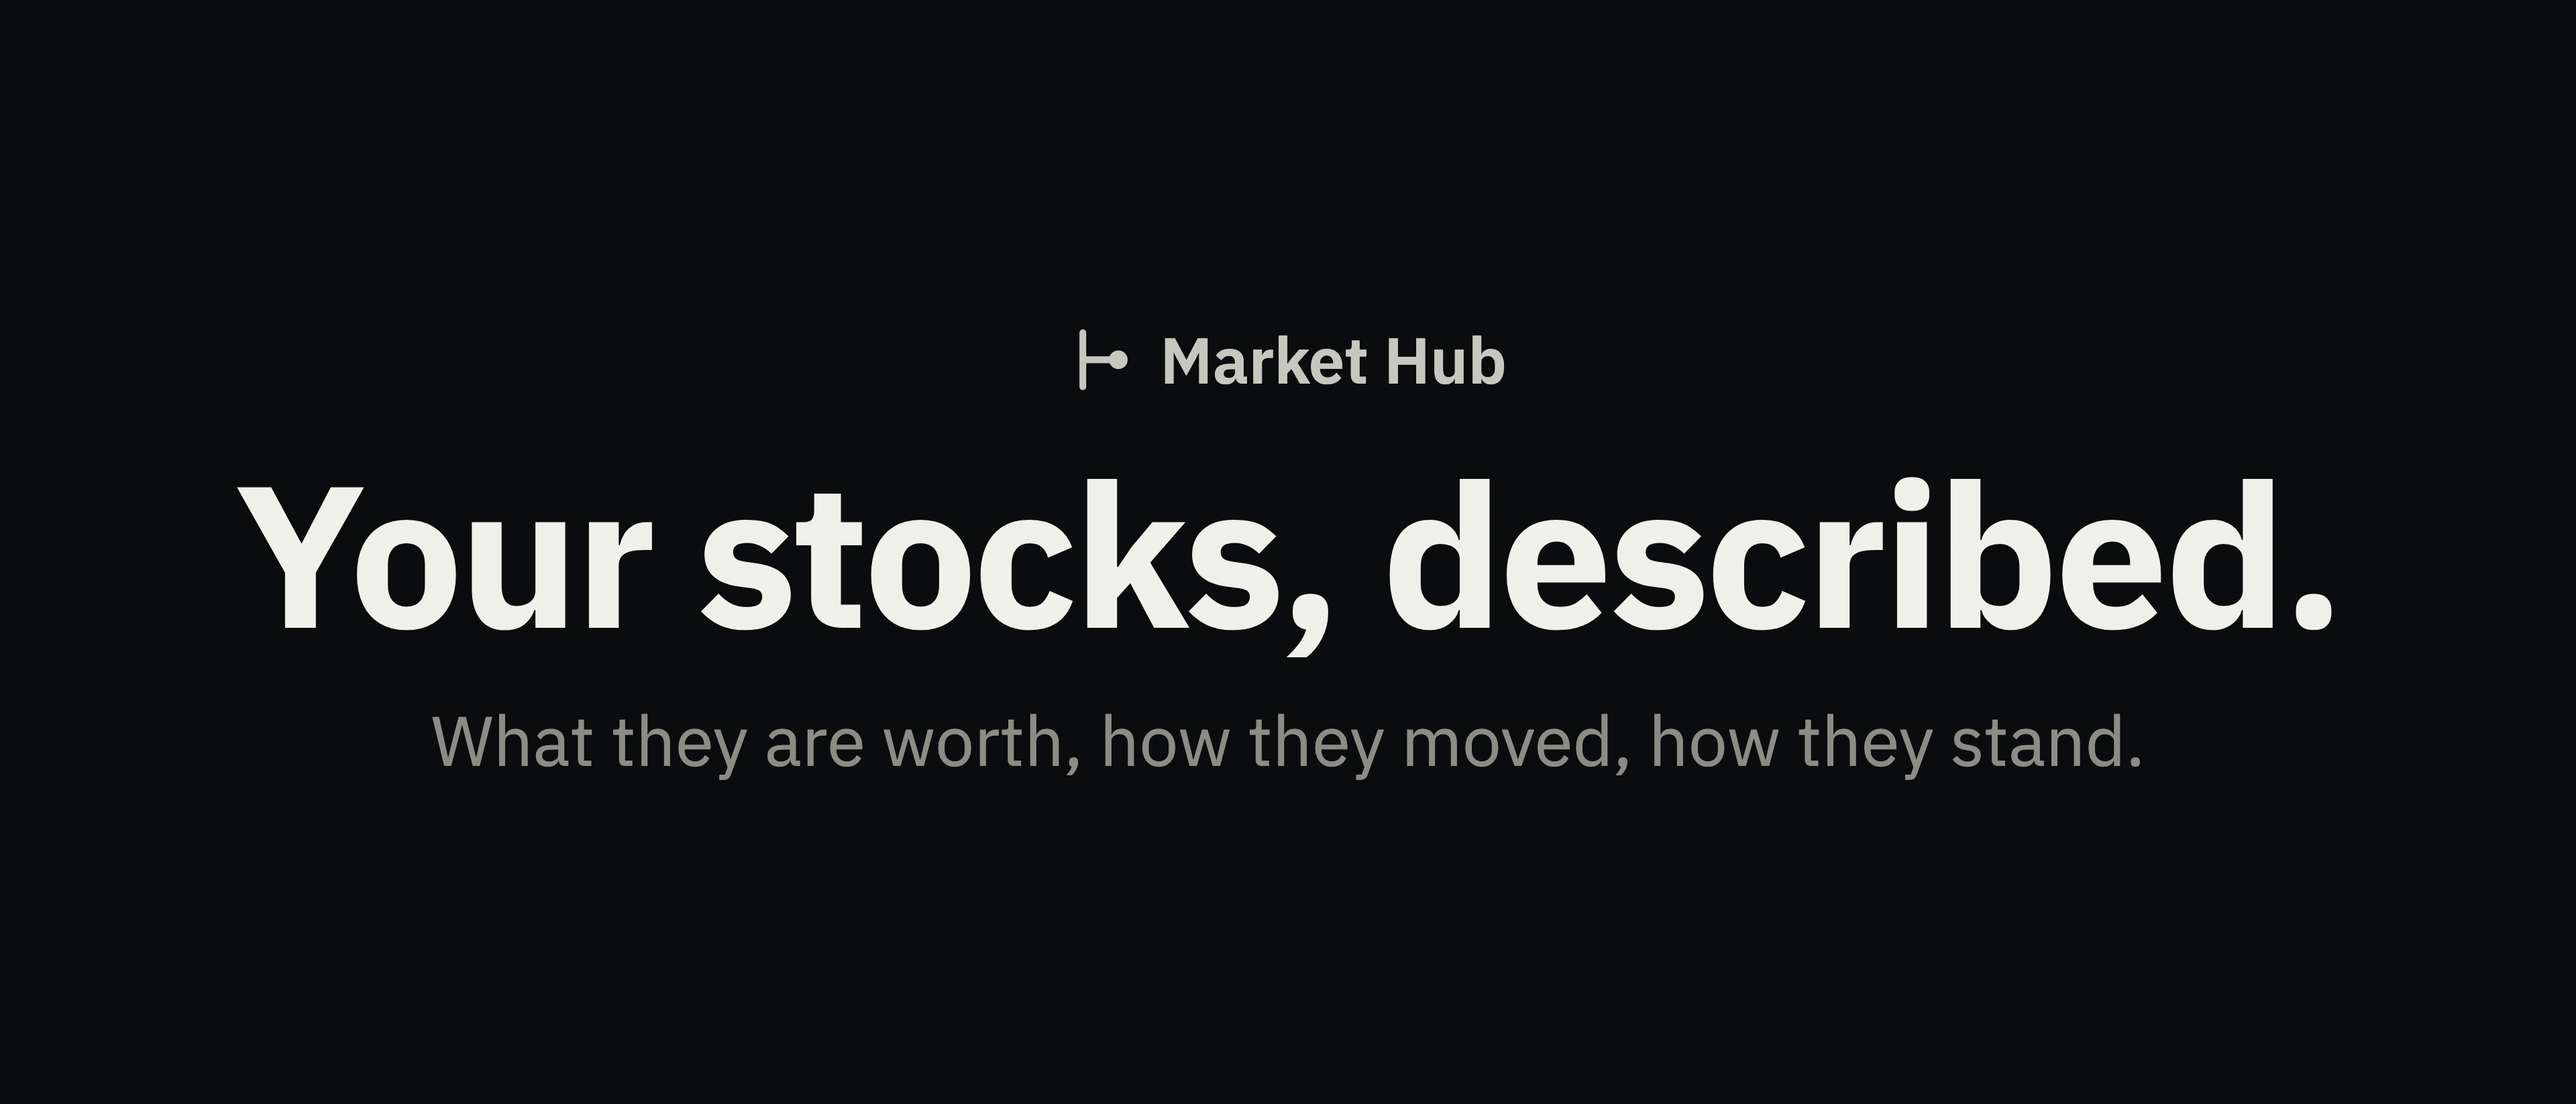
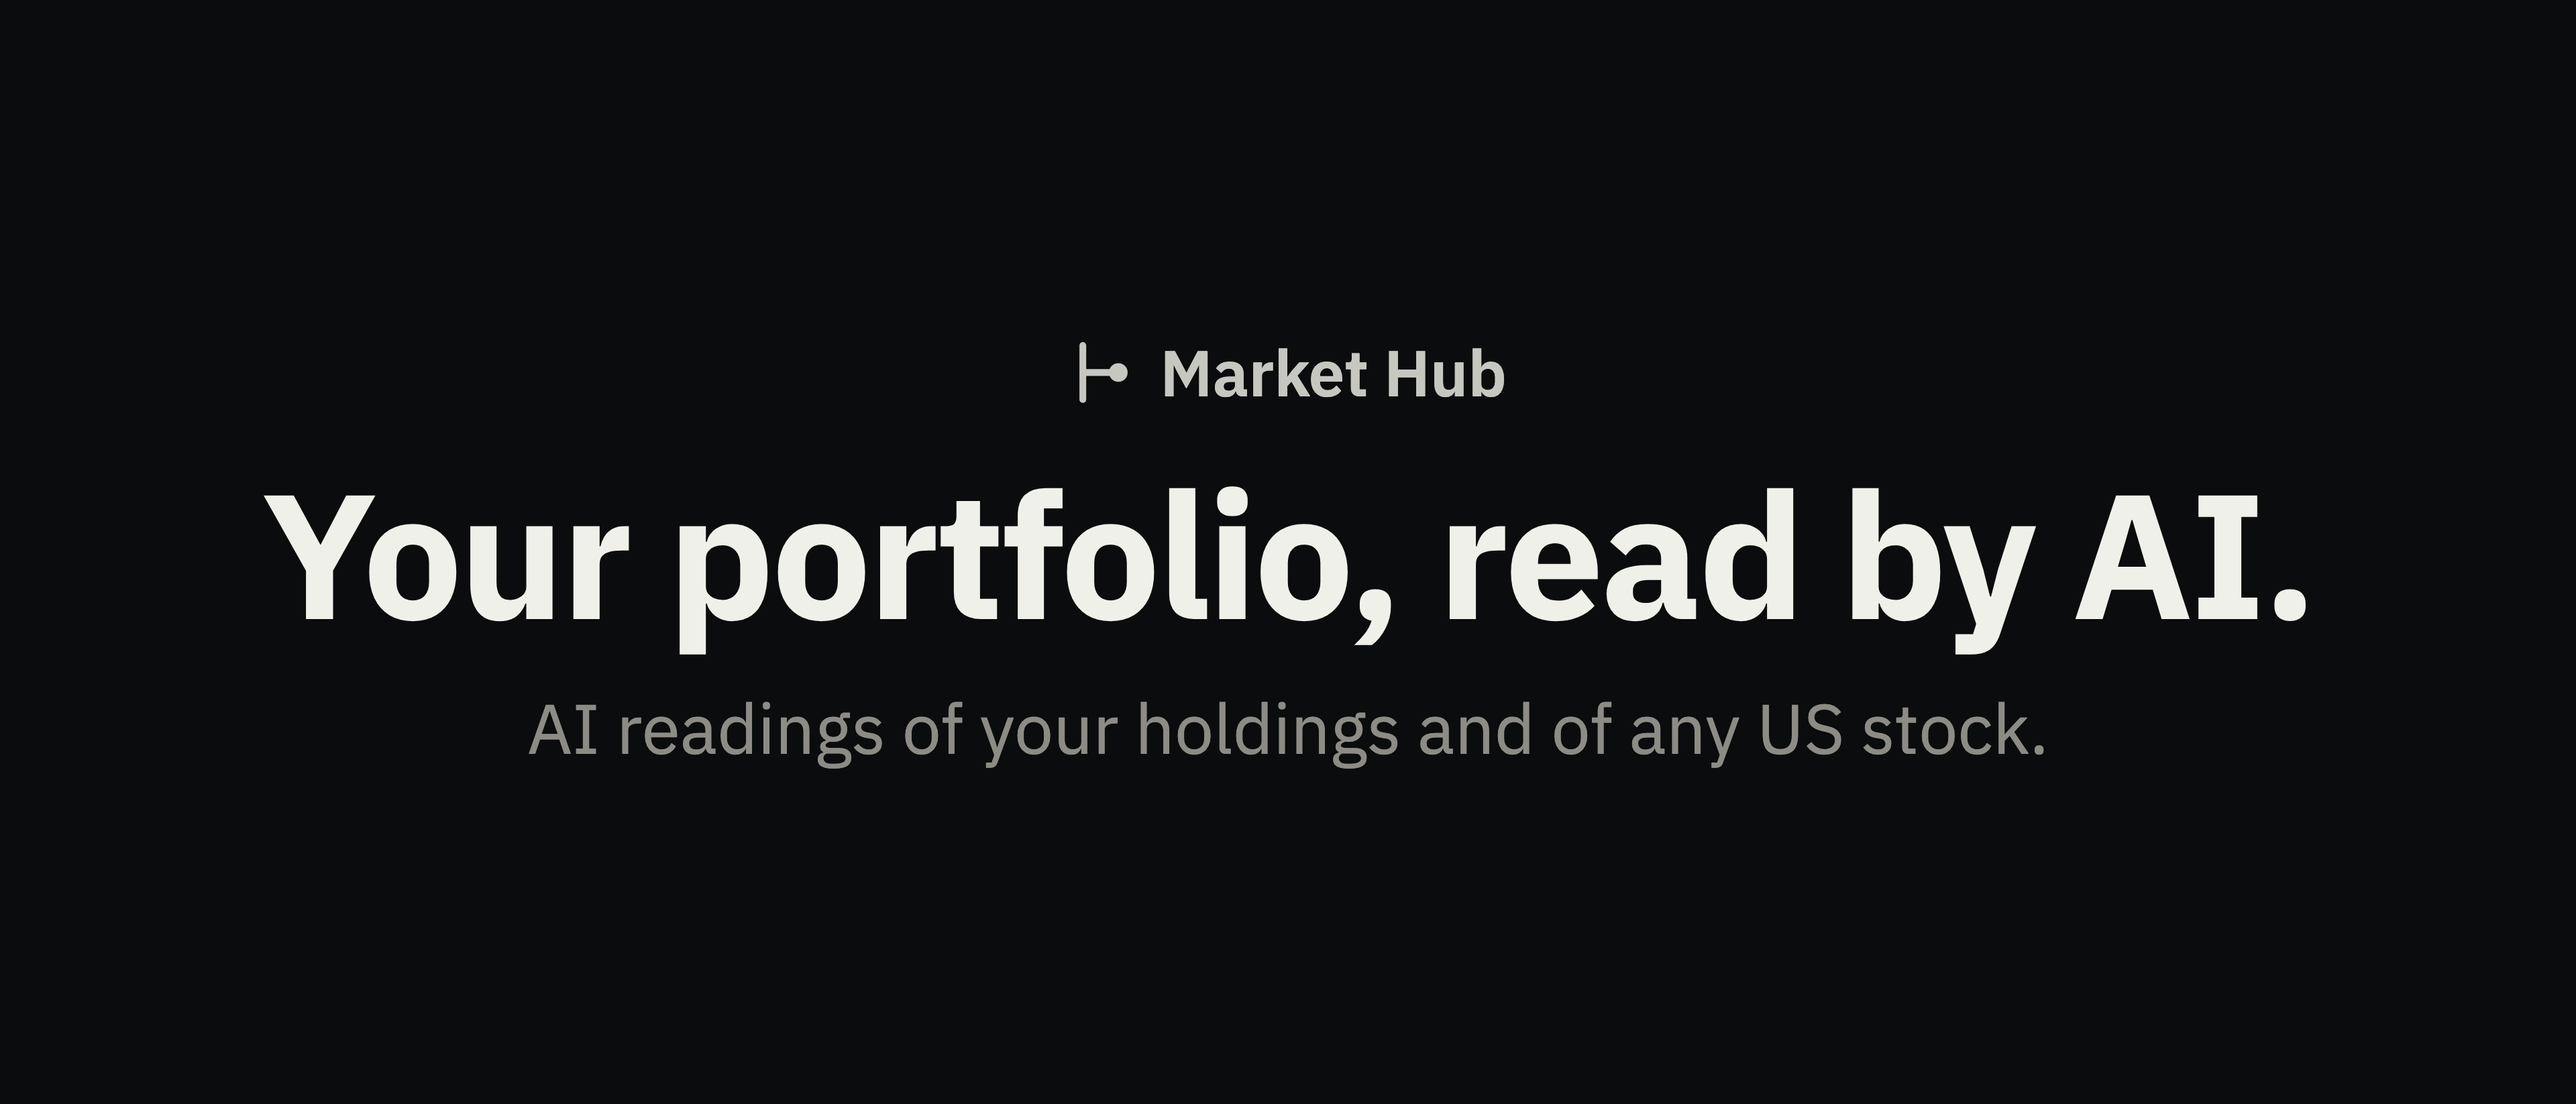
The App Store's two pictures say what the owner wants said: the portfolio, read by AI

Changed region(s): [[0.0938, 0.4338, 0.9062, 0.5887], [0.1562, 0.6197, 0.8438, 0.7126], [0.4062, 0.3098, 0.5938, 0.3718]]

diff --git a/store/app-store/art/search.html b/store/app-store/art/search.html
@@ -7,7 +7,7 @@
   body { display: grid; grid-template-columns: 1.02fr 1fr; align-items: center; padding: 0 230px; column-gap: 120px; }
   .brand { font-size: 104px; color: var(--ink); }
   h1 { font-size: 248px; margin-top: 84px; }
-  .sub { font-size: 100px; margin-top: 70px; max-width: 14.5em; }
+  .sub { font-size: 100px; margin-top: 70px; max-width: 15em; text-wrap: balance; }
   .shots { position: relative; height: 2560px; }
   .shot { position: absolute; width: 960px; }
   .shot.back { right: 0; top: 330px; }
@@ -19,8 +19,8 @@
       <svg viewBox="0 0 20 20" fill="none" stroke="currentColor" stroke-width="2" stroke-linecap="round"><path d="M4 2v16M4 10h8"/><circle cx="14.5" cy="10" r="2.75" fill="currentColor" stroke="none"/></svg>
       <span>Market Hub</span>
     </div>
-    <h1>Your stocks, described.</h1>
-    <p class="sub">A private page for your portfolio and the stocks you follow. It never tells you what to do.</p>
+    <h1>Your portfolio, read by AI.</h1>
+    <p class="sub">AI reads your holdings, and any US stock, back to you in plain words. It never tells you what to do.</p>
   </div>
   <div class="shots">
     <img class="shot back" src="../screenshots/04-stock.png" alt="">

diff --git a/store/app-store/art/header.html b/store/app-store/art/header.html
@@ -7,7 +7,7 @@
   body { display: grid; place-items: center; }
   main { text-align: center; }
   .brand { justify-content: center; font-size: 96px; color: var(--ink); }
-  h1 { font-size: 300px; margin-top: 70px; }
+  h1 { font-size: 264px; margin-top: 70px; }
   .sub { font-size: 104px; margin-top: 56px; }
   /* The mark's own line, across the picture: the zero everything is measured from. */
   .rule { position: absolute; left: 0; right: 0; top: 50%; height: 2px; background: var(--line); z-index: -1; }
@@ -18,7 +18,7 @@
       <svg viewBox="0 0 20 20" fill="none" stroke="currentColor" stroke-width="2" stroke-linecap="round"><path d="M4 2v16M4 10h8"/><circle cx="14.5" cy="10" r="2.75" fill="currentColor" stroke="none"/></svg>
       <span>Market Hub</span>
     </div>
-    <h1>Your stocks, described.</h1>
-    <p class="sub">What they are worth, how they moved, how they stand.</p>
+    <h1>Your portfolio, read by AI.</h1>
+    <p class="sub">AI readings of your holdings and of any US stock.</p>
   </main>
 </body>

diff --git a/store/app-store/LISTING.md b/store/app-store/LISTING.md
@@ -171,7 +171,7 @@ Market Hub cubre empresas cotizadas en Estados Unidos. La app está en inglés. 
 |---|---|---|
 | Icono | El de la app (`assets/images/icon.png`, 1024 × 1024, sin transparencia): va dentro de la compilación | Hecho (`make icons`) |
 | Capturas de iPhone: de 1 a 10, PNG o JPEG sin transparencia | `store/app-store/screenshots/`: cinco PNG de **1206 × 2622** sin transparencia, del simulador **iPhone 18 Pro**. Es el tamaño del recuadro que App Store Connect enseña y exige, "iPhone with Dynamic Island (medium display)", que solo toma 1179 × 2556 o 1206 × 2622: las primeras se sacaron a 1320 × 2868 (Pro Max) y las rechazó por "File dimensions are invalid". Van en ese recuadro, no en "Header and Search Results", que es otro, opcional y de otro tamaño. Son: Overview, Analysis, Watchlist, la ficha de una acción y el mapa de Watchlist. Con precios de verdad (Yahoo, del 2026-10-13) y una cartera inventada, de una cuenta local ("Alex"); la hora, 9:41. Community no va: en local solo hay un par de carteras | Hecho (2026-10-13) |
-| Cabecera de la página ("Header"), opcional: una imagen de 3840 × 1646 o 5244 × 2950 | `store/app-store/art/header-3840x1646.png`: la marca, "Your stocks, described." y una línea, centrados (la tienda pone encima el nombre y los botones y recorta los bordes) | Hecho (2026-10-13, `make art`) |
+| Cabecera de la página ("Header"), opcional: una imagen de 3840 × 1646 o 5244 × 2950 | `store/app-store/art/header-3840x1646.png`: la marca, "Your portfolio, read by AI." y una línea, centrados (la tienda pone encima el nombre y los botones y recorta los bordes) | Hecho (2026-10-13, `make art`) |
 | Imagen para los resultados de búsqueda ("Search Results"), opcional: 3840 × 2560, 1920 × 1280 o 5244 × 2950. Sin ella, la tienda enseña las capturas | `store/app-store/art/search-3840x2560.png`: lo mismo dicho a la izquierda y dos capturas de la app a la derecha | Hecho (2026-10-13, `make art`) |
 | Categoría | Finance | |
 | Copyright | `2026 <el nombre del titular de la cuenta>` | **Pendiente** |
